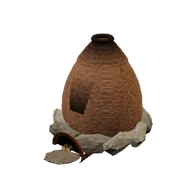
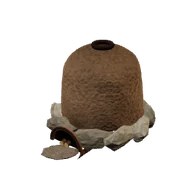
Avance: el banco de arcilla pintado en un calco (borde que se deshace en la hierba), el horno cerámico de pared recta y cúpula baja, sin bandas; iconos v43 rehechos
Claude-Session: https://claude.ai/code/session_011XgxtmHQ9SZdTdyY64ZsBo

Changed region(s): [[0.2188, 0.1562, 0.8125, 0.875]]

diff --git a/src/juego/recoleccion.js b/src/juego/recoleccion.js
@@ -36,7 +36,7 @@ export function zonasDemo(x, z) {
 // ---------- Modelos (estilo v5: texturas por código, color por vértice, sombra de contacto) ----------
 const PIEL_SILEX = 0xcfc6b0, NUCLEO_SILEX = 0x3e3b3c, CALIZA_COLOR = 0xbcb4a0, ORTIGA = 0x4a6436, ORTIGA_OSC = 0x3d5530;
 // (P10) la arcilla: gris azulada, más oscura y más húmeda en el fondo del corte; la tierra parda de encima
-const ARCILLA_GRIS = 0x8b8c84, ARCILLA_HONDA = 0x6f7570, ARCILLA_AGUA = 0x5e6560, ARCILLA_TIERRA = 0x6a5844;
+const ARCILLA_GRIS = 0x666b67, ARCILLA_HONDA = 0x555c58, ARCILLA_TIERRA = 0x5c4a39;
 const JUNCO = 0x7a8c4e, JUNCO_OSC = 0x687a43, JUNCO_FLOR = 0x7a6040, BARRO_SECO = 0x6e5a44, BARRO_HUMEDO = 0x4e3f31, BARRO_AGUA = 0x51473a;
 const TOCON = 0x8a7660, TOCON_PODRIDO = 0x9c8c74, YESQUERO = 0x8c7b63, YESQUERO_BORDE = 0xc9bca3;
 // (P4) las bayas: maduras rojas y negro morado, alguna aún verde rojiza; las cañas, pardo rojizo. Las setas: sombrero
@@ -131,6 +131,40 @@ function vetaCalco() {
   cx.putImageData(img, 0, 0);
   const t = new THREE.CanvasTexture(cv); t.colorSpace = THREE.SRGBColorSpace; t.anisotropy = 4;
   return (calcoVeta = new THREE.MeshLambertMaterial({ map: t, transparent: true, depthWrite: false, polygonOffset: true, polygonOffsetFactor: -2, polygonOffsetUnits: -2 }));
+}
+// (P10, 19 nov) el banco de arcilla: el hoyo cavado a pala pintado por código en un calco, como la mancha de pantano:
+// fuera, la tierra parda removida que se deshace en la hierba; dentro, la arcilla gris azulada, lisa y moteada, más
+// oscura y húmeda en el fondo (con algún brillo de agua), las marcas rectas de la pala y, por el lado de arriba, el
+// corte de la pared, en sombra.
+let calcoArcilla = null;
+function arcillaCalco() {
+  if (calcoArcilla) return calcoArcilla;
+  const N = 512, cv = document.createElement('canvas'); cv.width = cv.height = N;
+  const cx = cv.getContext('2d'), img = cx.createImageData(N, N), d = img.data;
+  const n1 = ruidoValor(2.3), n2 = ruidoValor(6.1), n3 = ruidoValor(11.7);
+  const mezcla = (a, b, t) => a + (b - a) * Math.max(0, Math.min(1, t));
+  const paso = (a, b, x) => { const t = Math.max(0, Math.min(1, (x - a) / (b - a))); return t * t * (3 - 2 * t); };
+  for (let j = 0; j < N; j++) for (let i = 0; i < N; i++) {
+    const u = i / (N - 1) * 2 - 1, v = j / (N - 1) * 2 - 1, k = (j * N + i) * 4;
+    const rr = Math.hypot(u, v * 1.15) + (n1(u * 3 + 5, v * 3 + 1) - 0.5) * 0.4;
+    const mot = n2(u * 8, v * 8), grumo = n3(u * 30, v * 30);
+    const tierra = paso(1.0, 0.7, rr), arc = paso(0.66, 0.5, rr), hondo = paso(0.42, 0.12, rr + (n2(u * 4 + 3, v * 4) - 0.5) * 0.2);
+    // el corte de la pared, por arriba (v < 0): una media luna en sombra entre la tierra y la arcilla
+    const corte = paso(0.5, 0.66, rr) * paso(0.74, 0.62, rr) * paso(0.0, -0.45, v);
+    // las marcas de la pala: rayas rectas algo inclinadas, solo en la arcilla
+    const raya = arc * (1 - hondo * 0.6) * paso(0.9, 0.98, Math.abs(Math.sin((u * 0.35 + v) * 11 + n1(u * 2, v * 2) * 5))) * paso(0.35, 0.6, n3(u * 2 + 4, v * 6));
+    const brillo = hondo * paso(0.7, 0.9, n3(u * 3 + 7, v * 5 + 2)) * 0.5;
+    // tierra parda moteada → arcilla gris azulada → el fondo más oscuro y húmedo
+    let R = mezcla(mezcla(0x5c, 0x63, arc), 0x47, hondo), G = mezcla(mezcla(0x4b, 0x66, arc), 0x4d, hondo), B = mezcla(mezcla(0x3a, 0x62, arc), 0x4b, hondo);
+    const m = (mot - 0.5) * (arc ? 18 : 26); R += m; G += m; B += m * 0.8;
+    if (!arc && grumo > 0.7) { R -= 14; G -= 12; B -= 10; }   // terroncitos de la tierra removida
+    R = R * (1 - corte * 0.45 - raya * 0.1) + brillo * 50; G = G * (1 - corte * 0.45 - raya * 0.1) + brillo * 56; B = B * (1 - corte * 0.4 - raya * 0.09) + brillo * 62;
+    const A = tierra * (0.82 + 0.18 * paso(0.3, 0.6, n2(u * 5 + 2, v * 5)));
+    d[k] = Math.max(0, Math.min(255, R)); d[k + 1] = Math.max(0, Math.min(255, G)); d[k + 2] = Math.max(0, Math.min(255, B)); d[k + 3] = Math.max(0, Math.min(255, A * 255));
+  }
+  cx.putImageData(img, 0, 0);
+  const t = new THREE.CanvasTexture(cv); t.colorSpace = THREE.SRGBColorSpace; t.anisotropy = 4;
+  return (calcoArcilla = new THREE.MeshLambertMaterial({ map: t, transparent: true, depthWrite: false, polygonOffset: true, polygonOffsetFactor: -2, polygonOffsetUnits: -2 }));
 }
 // (P10) un trozo de roca del afloramiento: una esfera facetada, aplastada y cortada con planos (rompe en caras planas con
 // aristas, como la roca de los cortados, src/mundo/rocas.js), de semilla fija
@@ -280,38 +314,18 @@ export function modelosRecoleccion() {
       L.add(new THREE.IcosahedronGeometry(0.05 + (k % 2) * 0.02, 0), k % 2 ? BARRO_SECO : BARRO_HUMEDO, Math.cos(a) * r * 1.3, 0.02, Math.sin(a) * r, { y: k }, { escala: new THREE.Vector3(1.3, 0.55, 1), plano: true, tex: 'piedra' });
     }
   }, { rangoSuelo: 0.05 });
-  // (P10, 19 nov) el banco de arcilla: un corte a pala en la ribera, más cuadrado que el charco del barro (se ven los
-  // golpes rectos de la pala), con la tierra parda de encima apartada en el borde y debajo la arcilla gris azulada,
-  // lisa y húmeda (algo de agua en el fondo), y al lado unos terrones de arcilla sacados a pala, de caras planas
-  const arcilla = geoLote(L => {
-    const corte = (ax, az_, r, y, n, sem) => {   // un hoyo de esquinas redondeadas (más recto que el barro)
-      const s = new THREE.Shape();
-      for (let i = 0; i <= n; i++) {
-        const a = i / n * Math.PI * 2, c = Math.cos(a), sn = Math.sin(a), k = 1 / Math.pow(Math.pow(Math.abs(c), 4) + Math.pow(Math.abs(sn), 4), 0.25);
-        const q = r * k * (0.93 + 0.07 * Math.sin(a * 5 + sem));
-        i ? s.lineTo(c * q * ax, sn * q * az_) : s.moveTo(c * q * ax, sn * q * az_);
-      }
-      const g = new THREE.ShapeGeometry(s, 2); g.rotateX(-Math.PI / 2); g.translate(0, y, 0); return g;
-    };
-    L.add(corte(1.25, 1, 0.62, 0.012, 32, 1), ARCILLA_TIERRA, 0, 0, 0, { y: 0.1 }, { tex: 'piedra', sinSuelo: true });
-    L.add(corte(1.2, 0.95, 0.5, 0.018, 28, 2), ARCILLA_GRIS, 0, 0, 0, { y: 0.1 }, { tex: 'piedra', sinSuelo: true });
-    L.add(corte(1.15, 0.9, 0.36, 0.022, 24, 3), ARCILLA_HONDA, 0.03, 0, 0.02, { y: 0.1 }, { tex: 'piedra', sinSuelo: true });
-    L.add(corte(1.2, 0.8, 0.17, 0.026, 18, 4), ARCILLA_AGUA, 0.08, 0, 0.04, { y: 0.1 }, { tex: 'liso', sinSuelo: true, brillo: 0.92 });
-    // el talud de la pala por el lado de arriba: una cara recta de arcilla, con la tierra parda encima
-    L.add(new THREE.BoxGeometry(0.7, 0.07, 0.06), ARCILLA_GRIS, -0.05, 0.03, -0.47, { y: 0.1, x: -0.35 }, { tex: 'piedra', sinSuelo: true });
-    L.add(new THREE.BoxGeometry(0.74, 0.045, 0.09), ARCILLA_TIERRA, -0.05, 0.06, -0.52, { y: 0.1 }, { tex: 'piedra', sinSuelo: true });
-    // la tierra apartada, en terrones pardos por el borde
-    for (let k = 0; k < 6; k++) {
-      const a = k * 1.05 + 0.5, r = 0.62 + (k % 3) * 0.05;
-      L.add(new THREE.IcosahedronGeometry(0.05 + (k % 2) * 0.02, 0), ARCILLA_TIERRA, Math.cos(a) * r * 1.25, 0.02, Math.sin(a) * r, { y: k }, { escala: new THREE.Vector3(1.3, 0.5, 1), plano: true, tex: 'piedra' });
-    }
-    // los terrones de arcilla sacados a pala, a un lado: de caras planas y cantos algo redondeados por el golpe
-    [[0.78, 0.04, 0.25, 0.3, 0.13], [0.9, 0.03, 0.06, -0.4, 0.11], [0.82, 0.1, 0.16, 0.9, 0.1], [0.7, 0.035, 0.42, 1.3, 0.09]].forEach(([x, y, z, g, l], i) => {
-      const b = new THREE.BoxGeometry(l, l * 0.6, l * 0.8, 2, 1, 2), p = b.attributes.position;
-      for (let j = 0; j < p.count; j++) { const kk = 1 + Math.sin(j * 7.1 + i) * 0.05; p.setX(j, p.getX(j) * kk); p.setZ(j, p.getZ(j) * (2 - kk)); }
-      L.add(b, i % 2 ? ARCILLA_GRIS : ARCILLA_HONDA, x, y, z, { y: g, z: (i - 1.5) * 0.06 }, { tex: 'piedra', plano: true });
+  // (P10, 19 nov) el banco de arcilla: el hoyo cavado a pala (el calco, arcillaCalco) y al borde unos terrones de arcilla
+  // sacados a pala, gris azulados y de caras planas, y unos de tierra parda apartada
+  const arcillaTerrones = geoLote(L => {
+    [[0.78, 0.04, 0.3, 0.3, 0.1, 1], [0.9, 0.035, 0.08, -0.4, 0.085, 0], [0.7, 0.09, 0.2, 0.9, 0.075, 1], [0.58, 0.035, 0.5, 1.3, 0.07, 0], [-0.8, 0.03, -0.25, 2.1, 0.07, 1]].forEach(([x, y, z, gi, r, gris], i) => {
+      L.add(new THREE.IcosahedronGeometry(r, 0), gris ? ARCILLA_GRIS : ARCILLA_HONDA, x, y, z, { y: gi, z: (i - 1.5) * 0.08 }, { escala: new THREE.Vector3(1.5, 0.65, 1.15), plano: true, tex: 'piedra' });
     });
+    for (let k = 0; k < 6; k++) {
+      const a = k * 1.1 + 2.2, r = 0.72 + (k % 3) * 0.05;
+      L.add(new THREE.IcosahedronGeometry(0.05 + (k % 2) * 0.02, 0), ARCILLA_TIERRA, Math.cos(a) * r * 1.15, 0.02, Math.sin(a) * r, { y: k }, { escala: new THREE.Vector3(1.3, 0.55, 1), plano: true, tex: 'piedra' });
+    }
   }, { rangoSuelo: 0.05 });
+  const arcilla = [{ geo: calcoGeo(1.9, 1.65, 0.03), mat: arcillaCalco(), calco: true }, ...arcillaTerrones];
   // hongos yesqueros (7 nov): un tocón viejo y podrido (40 cm), con la corteza rota y la madera gris a la vista, y en
   // él tres o cuatro yesqueros en repisa: semicírculos gruesos, gris pardo con bandas, el borde claro
   const yesquero = geoLote(L => {
@@ -709,7 +723,7 @@ export function crearRecoleccionMundo({ raiz, mundoJ, semilla, altura, obstaculo
         const im = new THREE.InstancedMesh(geo, mat, lista.length), matrices = [];
         // (13 nov, valravnx: los juncos, más grandes: de 1,3 a unos 1,7 m)
         const esc = tipo === 'juncos' ? 1.3 : 1;
-        lista.forEach((p, i) => { o.position.set(p.x, p.y - 0.01, p.z); o.rotation.set(0, p.giro, 0); if (tipo === 'hierro_pantano' || tipo === 'veta_hierro') inclinar(o, p); o.scale.setScalar(tipo === 'veta_hierro' ? 1 : esc * (0.9 + (i % 4) * 0.08)); o.updateMatrix(); matrices.push(o.matrix.clone()); im.setMatrixAt(i, o.matrix); });
+        lista.forEach((p, i) => { o.position.set(p.x, p.y - 0.01, p.z); o.rotation.set(0, p.giro, 0); if (tipo === 'hierro_pantano' || tipo === 'veta_hierro' || tipo === 'arcilla') inclinar(o, p); o.scale.setScalar(tipo === 'veta_hierro' ? 1 : esc * (0.9 + (i % 4) * 0.08)); o.updateMatrix(); matrices.push(o.matrix.clone()); im.setMatrixAt(i, o.matrix); });
         im.castShadow = tipo !== 'hierba_larga' && tipo !== 'barro' && tipo !== 'arcilla' && tipo !== 'hierro_pantano' && !calco; im.receiveShadow = true; im.name = 'recoger_' + tipo + (siempre ? '_planta' : cortado ? '_cortado' : ''); im.frustumCulled = false; grupo.add(im);
         mallas.push({ im, lista, matrices, siempre, cortado });
       }

diff --git a/src/juego/estaciones.js b/src/juego/estaciones.js
@@ -511,42 +511,40 @@ function fuegoFragua(cual, id) {
 // abajo, la boca del hogar: un túnel corto en bóveda de arcilla, negro por dentro y con el hollín subiendo por la cara
 // de la cúpula, por donde se mete la leña. La leña puesta para arder se ve en la boca; encendido, el fuego asoma por
 // ella (al rojo por dentro) y sale humo por el respiradero (fuegoHornoCeramico).
-const HORNO_CER = { r: 0.6, base: 0.2, alto: 1.42, tiro: 0.13, boca: 0.2, tunel: 0.34 };
+const HORNO_CER = { r: 0.62, base: 0.2, alto: 1.2, tiro: 0.13, boca: 0.2, tunel: 0.34 };
 const ARCILLA_HORNO = 0x8c7461, ARCILLA_COCIDA = 0x87634f, HOLLIN_CER = 0x3a302a;
-const perfilCupula = t => HORNO_CER.r * (1 - 0.78 * Math.pow(t, 2.1)) + Math.sin(t * Math.PI) * 0.03;
+// el perfil: la cámara, de pared casi recta y algo cerrada hacia arriba, y encima la cúpula baja hasta el respiradero
+// (t: 0 abajo, 1 arriba; la cúpula empieza en CUPULA)
+const CUPULA = 0.62;
+const perfilCupula = t => {
+  const { r: R, tiro: T } = HORNO_CER;
+  if (t < CUPULA) return R * (1 - 0.1 * t / CUPULA + Math.sin(t / CUPULA * Math.PI) * 0.02);
+  const s = (t - CUPULA) / (1 - CUPULA); return T + (R * 0.9 - T) * Math.sqrt(Math.max(0, 1 - s * s));
+};
 function hornoCeramico(id) {
   const { r: R, base: B, alto: A, tiro: T, boca: BO, tunel: TU } = HORNO_CER, L = new Lote({ rangoSuelo: 0.35, variacion: 0.08 });
   // la cúpula: el perfil de fuera, el labio del respiradero y la pared de dentro hasta un palmo
   const y = t => B - 0.02 + (A - B) * t, perfil = [];
-  for (let i = 0; i <= 14; i++) { const t = i / 14; perfil.push(new THREE.Vector2(perfilCupula(t), y(t))); }
+  for (let i = 0; i <= 20; i++) { const t = i / 20; perfil.push(new THREE.Vector2(perfilCupula(t), y(t))); }
   perfil.push(new THREE.Vector2(T + 0.01, A + 0.015), new THREE.Vector2(T - 0.015, A - 0.2));
-  const cup = new THREE.LatheGeometry(perfil, 28), p = cup.attributes.position;
+  const cup = new THREE.LatheGeometry(perfil, 32), p = cup.attributes.position, sem = az(id, 1) * 6;
   for (let i = 0; i < p.count; i++) {   // alisada a mano: ni redonda ni lisa (los golpes de la palma, en anillos)
     const x = p.getX(i), yy = p.getY(i), z = p.getZ(i), r = Math.hypot(x, z);
     if (r < 0.05 || yy > A) continue;
-    const ang = Math.atan2(z, x), k = 1 + (az(id, Math.round(ang * 5) + ':' + Math.round(yy * 8)) - 0.5) * 0.06 + Math.sin(yy * 31 + ang * 4) * 0.006;
+    const ang = Math.atan2(z, x), k = 1 + Math.sin(ang * 3 + yy * 5 + sem) * 0.018 + Math.sin(ang * 7 - yy * 11 + sem * 2) * 0.01 + Math.sin(ang * 13 + yy * 23) * 0.004;
     p.setX(i, x * k); p.setZ(i, z * k);
   }
   cup.computeVertexNormals();
   // el hollín, horneado en la propia cúpula (sin bordes): negro en el labio del respiradero y aclarándose hacia abajo, y
-  // delante una lengua que sube desde la boca del hogar, ancha abajo y estrecha arriba, que se pierde a media cúpula
+  // delante, encima de la boca del hogar
   const tizne = v => {
-    const arriba = Math.min(1, Math.max(0, (v.y - (A - 0.42)) / 0.42)) ** 1.6;
-    const ang = Math.atan2(v.x, v.z), sube = (v.y - 0.12) / 0.75, ancho = 0.62 - 0.32 * Math.min(1, Math.max(0, sube));
-    const lengua = sube < 0 || sube > 1.3 ? 0 : Math.exp(-((ang / ancho) ** 2)) * (1 - Math.min(1, sube / 1.3)) ** 0.8;
-    return 1 - 0.62 * Math.min(1, Math.max(arriba, lengua));
+    const arriba = Math.min(1, Math.max(0, (v.y - (A - 0.4)) / 0.4)) ** 1.5;
+    const ang = Math.atan2(v.x, v.z), boca = v.y > 0.55 ? 0 : Math.exp(-((ang / 0.38) ** 2)) * Math.min(1, Math.max(0, (0.55 - v.y) / 0.3));
+    return 1 - 0.6 * Math.min(1, Math.max(arriba, boca * 0.8));
   };
   L.add(cup, ARCILLA_HORNO, 0, 0, 0, null, { tex: 'piedra', rayas: tizne });
-  const fuera = yy => { const t = Math.min(1, Math.max(0, (yy - B + 0.02) / (A - B))); return perfilCupula(t) * 1.04 + 0.007; };
   L.add(new THREE.TorusGeometry(T + 0.005, 0.032, 6, 18), HOLLIN_CER, 0, A + 0.01, 0, { x: Math.PI / 2 }, { sinSuelo: true, brillo: 0.6 });   // el labio, quemado
   L.add(new THREE.CircleGeometry(T - 0.012, 14), 0x15110e, 0, A - 0.15, 0, { x: -Math.PI / 2 }, { sinSuelo: true, tex: 'liso' });   // lo oscuro de dentro
-  // las grietas del fuego: rayas finas y oscuras que bajan por la cúpula (cuarteada al secarse y al cocer)
-  for (let i = 0; i < 7; i++) {
-    const a = i * 0.9 + az(id, 'g' + i) * 0.6, y0 = B + 0.25 + az(id, 'h' + i) * 0.55, largo = 0.14 + az(id, 'l' + i) * 0.16;
-    if (Math.abs(Math.atan2(Math.sin(a - Math.PI / 2), Math.cos(a - Math.PI / 2))) < 0.5) continue;   // no encima de la boca (ahí manda el hollín)
-    const r = fuera(y0 + largo / 2) + 0.002;
-    L.add(new THREE.PlaneGeometry(0.008, largo), 0x4f3d31, Math.cos(a) * r, y0 + largo / 2, Math.sin(a) * r, { y: Math.PI / 2 - a, z: (az(id, 'z' + i) - 0.5) * 0.5, x: -0.25 }, { sinSuelo: true, tex: 'liso' });
-  }
   // el anillo de piedra seca de la base, medio hundido, abierto delante para la boca
   for (let i = 0; i < 10; i++) {
     const a = Math.PI / 2 + 0.42 + i * (2 * Math.PI - 0.84) / 9 + (az(id, 10 + i) - 0.5) * 0.08, d = R + 0.03;
@@ -572,16 +570,18 @@ function hornoCeramico(id) {
 }
 // El fuego del horno cerámico: llamas cortas que lamen la boca del hogar (entre la leña) y humo por el respiradero de
 // arriba; en cenizas, un poco de ceniza en la boca.
+const MAT_LLAMA_BOCA = new THREE.MeshBasicMaterial({ color: 0xe0642a, transparent: true, opacity: 0.8, depthWrite: false });
 function fuegoHornoCeramico(cual, id) {
   const { r: R, alto: A, tunel: TU } = HORNO_CER, g = new THREE.Group(); g.name = 'fuego';
   const zb = R + TU - 0.2;
   g.userData.humo = { x: 0, y: A - 0.1, z: 0 }; g.userData.fuego = { x: 0, y: 0.15, z: zb };
   if (cual === 'ardiendo') {
-    for (let i = 0; i < 6; i++) {
-      const h = 0.1 + az(id, 'h' + i) * 0.1, r = 0.03 + az(id, 'q' + i) * 0.02, x = (i - 2.5) * 0.045;
-      const m = new THREE.Mesh(new THREE.ConeGeometry(r, h, 6), i === 2 || i === 3 ? MAT_NUCLEO_HORNO : MAT_LLAMA_HORNO);
-      m.geometry.translate(0, h / 2, 0); m.position.set(x, 0.03, zb + 0.04 + az(id, 'z' + i) * 0.06); m.rotation.x = 0.25; m.name = 'llama'; m.userData.fase = i * 1.9; g.add(m);
+    for (let i = 0; i < 4; i++) {   // las lenguas que lamen la boca desde dentro, echadas hacia fuera por el tiro
+      const h = 0.17 + az(id, 'h' + i) * 0.08, r = 0.055 + az(id, 'q' + i) * 0.02, x = (i - 1.5) * 0.075;
+      const m = new THREE.Mesh(new THREE.ConeGeometry(r, h, 7), i === 1 || i === 2 ? MAT_LLAMA_HORNO : MAT_LLAMA_BOCA);
+      m.geometry.translate(0, h / 2, 0); m.position.set(x, 0.02, zb - 0.06 + az(id, 'z' + i) * 0.05); m.rotation.x = 0.55; m.name = 'llama'; m.userData.fase = i * 1.9; g.add(m);
     }
+    const lecho = new THREE.Mesh(new THREE.CircleGeometry(0.15, 12), MAT_RESCOLDO); lecho.rotation.x = -Math.PI / 2; lecho.position.set(0, 0.015, zb); lecho.scale.set(1.2, 0.8, 1); lecho.name = 'llama_brasa'; g.add(lecho);   // las brasas del fondo
     for (let i = 0; i < 14; i++) { const m = new THREE.Sprite(MAT_HUMO_HORNO()); m.name = 'humo'; m.userData.fase = i / 14; g.add(m); }
   }
   if (cual === 'cenizas') {
@@ -1554,8 +1554,8 @@ export function crearEstaciones({ raiz, altura, fab }) {
       if (!f || (o.userData.firmaFuego.indexOf('ardiendo') !== 0 && !brasas)) continue;
       if (o.userData.tipo === 'carbonera') { moverHumo(f, t / 1000); continue; }   // (arde ahogada: sin luz)
       if (o.userData.tipo === 'horno_reduccion' || o.userData.tipo === 'horno_ceramico') moverHumo(f, t / 1000); else if (!brasas) moverFuego(f, t / 1000);
-      if (o.userData.tipo === 'horno_ceramico') vF.set(0, 0.45, HORNO_CER.r + HORNO_CER.tunel + 0.25); else   // (la luz, delante de la boca del hogar)
-      vF.set(0, brasas ? 0.5 : 0.9, 0); f.localToWorld(vF); const p = vF.clone(); p.k = brasas ? 0.22 : 1; arden.push(p); // la luz, por encima de las piedras (si no, las quema); las brasas, poca
+      if (o.userData.tipo === 'horno_ceramico') vF.set(0, 0.35, HORNO_CER.r + HORNO_CER.tunel + 0.3); else   // (la luz, delante de la boca del hogar, y menos: el fuego está dentro)
+      vF.set(0, brasas ? 0.5 : 0.9, 0); f.localToWorld(vF); const p = vF.clone(); p.k = brasas ? 0.22 : o.userData.tipo === 'horno_ceramico' ? 0.45 : 1; arden.push(p); // la luz, por encima de las piedras (si no, las quema); las brasas, poca
     }
     return arden;
   }

diff --git a/src/logica/iconos.js b/src/logica/iconos.js
@@ -1,7 +1,7 @@
 // La carpeta de las imágenes de cada cosa (panel de fabricar), dentro de docs/: las saca herramientas/iconos/sacar.py
 // de los modelos del juego. Los recursos publicados no se cambian: si se vuelven a sacar, van a otra carpeta
 // (iconos-v2…) y se cambia aquí. La comprueba pruebas/prueba_iconos.mjs.
-export const CARPETA_ICONOS = 'recursos/iconos-v42/';   // (v42, 19 nov: la sierra de tronzar (P10), con lo de v41; v41, 19 nov: el mango, el pico, los clavos y el hacha de hierro (P10), con lo de v40; v40, 19 nov: el fuelle, la fragua y la barra de hierro (P10), con lo de v39; v39, 18 nov: la carbonera (oficios), con lo de v38; v38, 18 nov: los zapatos de cuero y el cinto de cuero con la hebilla de madera (oficios), con lo de v37; v37, 18 nov: el huso y el ovillo de hilo (oficios), con lo de v36; v36, 17 nov: el cuero y las cubas de curtido (oficios), con lo de v35 (v34 la usó la rama de las cubas); v35, 17 nov: el horno de reducción, el carbón y la lupia (P10), con lo de v33 (v34 la usa la rama de las cubas de curtido); v33, 17 nov: la corteza de roble (oficios), con lo de v32; v32, 16 nov: el remo de la canoa (P11d), con lo de v31; v31, 16 nov: la canoa de un tronco y la canoa a medias (P11d), con lo de v30; v30, 15 nov: la rodaja de tronco (P11c), con lo de v29; v29, 14 nov: el cubo de agua (P11b), con lo de v28; v28, 14 nov: la criba del hierro de pantano (P10), con lo de v26; v25 y v27 las usó su rama; v26, 14 nov: la criba de grano y el grano sin limpiar (P11; v25 la usa la rama del hierro de pantano); v24, 14 nov: la era de trillar (P11), con lo de v23; v23, 13 nov: el raspador de pieles, la piel limpia y el zurrón nuevo (P9), con lo de v22; v22: la gavilla, la col y el nabo de cosechar (P11); v20: la estaca de marcar el campo, junto con el secadero y la carne seca (v16) y las semillas silvestres (v17))
+export const CARPETA_ICONOS = 'recursos/iconos-v43/';   // (v43, 19 nov: el horno cerámico (P10), con lo de v42; v42, 19 nov: la sierra de tronzar (P10), con lo de v41; v41, 19 nov: el mango, el pico, los clavos y el hacha de hierro (P10), con lo de v40; v40, 19 nov: el fuelle, la fragua y la barra de hierro (P10), con lo de v39; v39, 18 nov: la carbonera (oficios), con lo de v38; v38, 18 nov: los zapatos de cuero y el cinto de cuero con la hebilla de madera (oficios), con lo de v37; v37, 18 nov: el huso y el ovillo de hilo (oficios), con lo de v36; v36, 17 nov: el cuero y las cubas de curtido (oficios), con lo de v35 (v34 la usó la rama de las cubas); v35, 17 nov: el horno de reducción, el carbón y la lupia (P10), con lo de v33 (v34 la usa la rama de las cubas de curtido); v33, 17 nov: la corteza de roble (oficios), con lo de v32; v32, 16 nov: el remo de la canoa (P11d), con lo de v31; v31, 16 nov: la canoa de un tronco y la canoa a medias (P11d), con lo de v30; v30, 15 nov: la rodaja de tronco (P11c), con lo de v29; v29, 14 nov: el cubo de agua (P11b), con lo de v28; v28, 14 nov: la criba del hierro de pantano (P10), con lo de v26; v25 y v27 las usó su rama; v26, 14 nov: la criba de grano y el grano sin limpiar (P11; v25 la usa la rama del hierro de pantano); v24, 14 nov: la era de trillar (P11), con lo de v23; v23, 13 nov: el raspador de pieles, la piel limpia y el zurrón nuevo (P9), con lo de v22; v22: la gavilla, la col y el nabo de cosechar (P11); v20: la estaca de marcar el campo, junto con el secadero y la carne seca (v16) y las semillas silvestres (v17))
 // El kit de la interfaz (estudio del 7 nov, octava versión): los huecos, los botones, el medallón, el marco y el roble,
 // y los iconos de latón, renderizados en Blender con herramientas/interfaz/kit.py. Lo usan las hojas de estilo del juego
 // (src/plantilla.html, con la misma carpeta) y la barra de abajo. Los recursos publicados no se cambian: si se vuelven
